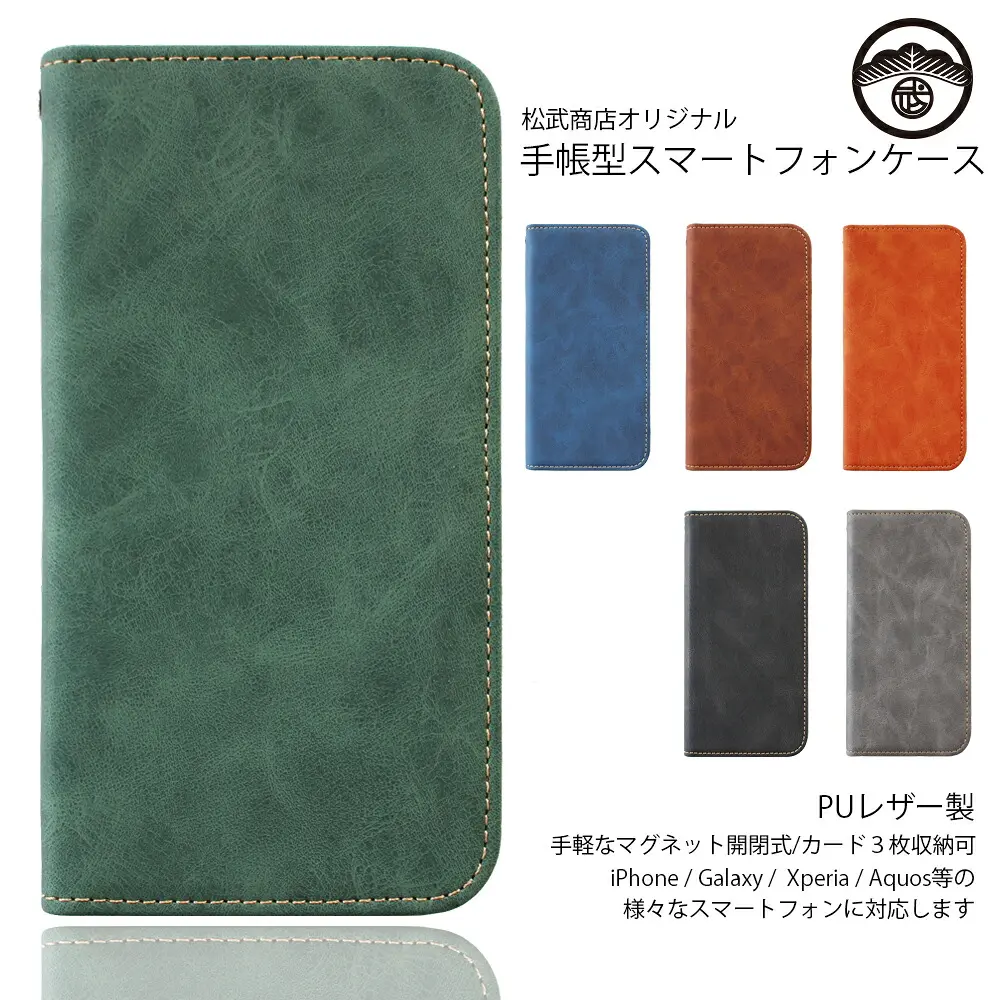
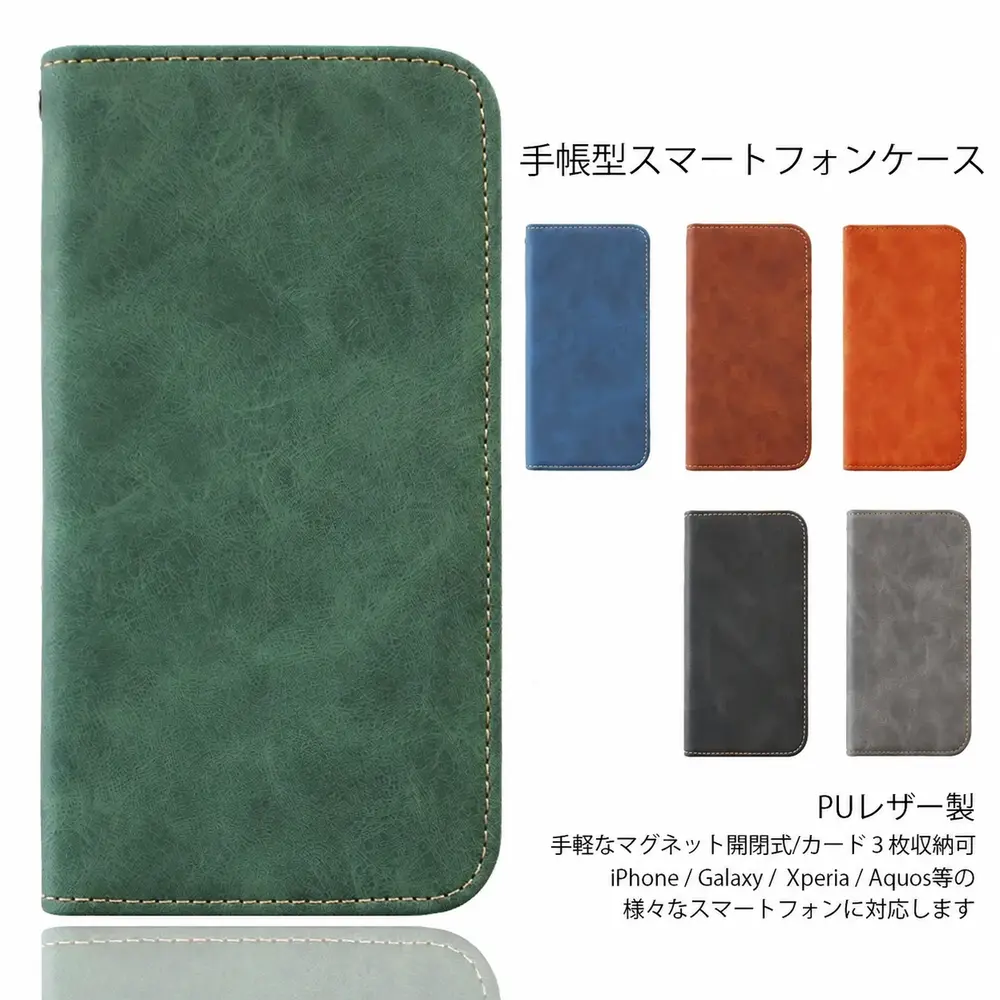
chore: remove Matsutake branding from business assets

diff --git a/.vitepress/theme/components/PerformanceAwardBadges.vue b/.vitepress/theme/components/PerformanceAwardBadges.vue
@@ -31,7 +31,7 @@ const laurelIconPath =
     </div>
     <ul class="performance-badges__notes">
       <li>
-        口コミ総合評価と口コミ件数は、松武商店（楽天市場）の公開情報をもとにした2026年3月31日時点の数値です。
+        口コミ総合評価と口コミ件数は、楽天市場出店店舗の公開情報をもとにした2026年3月31日時点の数値です。
       </li>
       <li>
         出店開始、2021年売上、楽天市場内ランキングは、これまでの実績を示しています。

diff --git a/services/mobile-accessories/index.md b/services/mobile-accessories/index.md
@@ -1,6 +1,6 @@
 ---
 title: スマートフォンアクセサリー事業
-description: 松武商店と3911を中心としたスマートフォンアクセサリー販売事業
+description: 3911を中心としたスマートフォンアクセサリー販売事業
 eyebrow: SMARTPHONE ACCESSORIES
 pageClass: service-doc-page
 ---
@@ -11,7 +11,7 @@ A premium corporate website visual for a Japanese smartphone accessories busines
 -->
 
 株式会社UOの事業基盤となっているのが、**スマートフォンアクセサリー事業**です。  
-楽天市場の **「松武商店」** と **「3911」** を主力店舗として、スマートフォン周辺グッズの販売と、オリジナルアイテムの開発を進めてきました。  
+楽天市場の **「3911」** を主力店舗として、スマートフォン周辺グッズの販売と、オリジナルアイテムの開発を進めてきました。
 販売現場で蓄積してきた運営ノウハウは、現在のOEM・卸販売や越境連携にもつながる重要な基盤となっています。
 
 ## 事業の特徴
@@ -32,27 +32,11 @@ A premium corporate website visual for a Japanese smartphone accessories busines
 株式会社UOは、複数のECチャネルを通じてスマートフォンアクセサリーを展開しています。  
 楽天市場を中心に販売基盤を築きながら、Amazonやモール型プラットフォームにも販路を広げています。
 
-- **楽天市場**：松武商店 / 3911 / 十色生活 / 天海スポーツ / HAGUMI / 松田 / ALLCase
+- **楽天市場**：3911 / 十色生活 / 天海スポーツ / HAGUMI / 松田 / ALLCase
 - **Amazon**：UOWORLD3911 / 幸田良品
 - **メルカリ / Qoo10 / au PAY マーケット**：いずれも3911で展開
 
 ## 主力店舗
-
-### [松武商店（楽天市場）](https://www.rakuten.co.jp/matsutake1816/)
-
-![松武商店イメージ](/uploads/pages/services/shop-matsutake.webp)
-
-<!--
-这里建议优先使用真实截图
-推荐内容：
-- 店铺首页首屏
-- 或具有代表性的商品陈列页
-- 统一裁切成 16:9 或 4:3
--->
-
-> *楽天市場における主力店舗として、スマートフォン周辺グッズを中心に展開しています。  
-多機種対応、オーダーメイド対応、オリジナルアイテム開発を通じて、株式会社UOの販売基盤を支えてきた重要な店舗です。*
-
 
 ### 3911（[楽天市場](https://www.rakuten.co.jp/uo3911/) / [メルカリ](https://jp.mercari.com/shops/profile/DKnSGBVY6VP22ckTF3h444) / Qoo10 / au PAY マーケット）
 

diff --git a/en/services/mobile-accessories/index.md b/en/services/mobile-accessories/index.md
@@ -1,6 +1,6 @@
 ---
 title: Smartphone Accessories Business
-description: Smartphone accessories sales business centered on Matsutake Shoten and 3911
+description: Smartphone accessories sales business centered on 3911
 eyebrow: SMARTPHONE ACCESSORIES
 pageClass: service-doc-page
 ---
@@ -12,7 +12,7 @@ A premium corporate website visual for a Japanese smartphone accessories busines
 -->
 
 The business foundation of UO Co., Ltd. is its **smartphone accessories business**.
-With **"Matsutake Shoten"** and **"3911"** on Rakuten Ichiba as its main storefronts, the company has expanded sales of smartphone accessories and developed original items.
+With **"3911"** on Rakuten Ichiba as its main storefront, the company has expanded sales of smartphone accessories and developed original items.
 The operational know-how accumulated on the sales floor now serves as an important foundation for OEM, wholesale, and cross-border coordination.
 
 
@@ -34,27 +34,11 @@ The operational know-how accumulated on the sales floor now serves as an importa
 UO Co., Ltd. offers smartphone accessories through multiple e-commerce channels.
 While building its sales foundation primarily on Rakuten Ichiba, the company has also expanded to Amazon and marketplace-style platforms.
 
-- **Rakuten Ichiba**: Matsutake Shoten / 3911 / 十色生活 / 天海スポーツ / HAGUMI / 松田 / ALLCase
+- **Rakuten Ichiba**: 3911 / 十色生活 / 天海スポーツ / HAGUMI / 松田 / ALLCase
 - **Amazon**: UOWORLD3911 / 幸田良品
 - **Mercari / Qoo10 / au PAY Market**: all operated under the 3911 name
 
 ## Flagship Stores
-
-### [Matsutake Shoten (Rakuten Ichiba)](https://www.rakuten.co.jp/matsutake1816/)
-
-![Matsutake Shoten image](/uploads/pages/services/shop-matsutake.webp)
-
-<!--
-这里建议优先使用真实截图
-推荐内容：
-- 店铺首页首屏
-- 或具有代表性的商品陈列页
-- 统一裁切成 16:9 或 4:3
--->
-
-> *As a flagship store on Rakuten Ichiba, Matsutake Shoten focuses on smartphone accessories.
-> Through multi-device support, custom-made products, and original item development, it has been a key part of the sales foundation of UO Co., Ltd.*
-
 
 ### 3911 ([Rakuten Ichiba](https://www.rakuten.co.jp/uo3911/) / [Mercari](https://jp.mercari.com/shops/profile/DKnSGBVY6VP22ckTF3h444) / Qoo10 / au PAY Market)
 

diff --git a/zh/services/mobile-accessories/index.md b/zh/services/mobile-accessories/index.md
@@ -1,6 +1,6 @@
 ---
 title: 手机配件业务
-description: 以松武商店和 3911 为核心的手机配件销售业务
+description: 以 3911 为核心的手机配件销售业务
 eyebrow: SMARTPHONE ACCESSORIES
 pageClass: service-doc-page
 ---
@@ -12,7 +12,7 @@ A premium corporate website visual for a Japanese smartphone accessories busines
 -->
 
 株式会社UO 的业务基础是 **手机配件业务**。
-公司以乐天市场的 **“松武商店”** 与 **“3911”** 为核心店铺，持续开展手机周边产品销售与原创商品开发。
+公司以乐天市场的 **“3911”** 为核心店铺，持续开展手机周边产品销售与原创商品开发。
 在销售一线积累的运营经验，如今也成为 OEM、批发销售与跨境协同的重要基础。
 
 
@@ -34,27 +34,11 @@ A premium corporate website visual for a Japanese smartphone accessories busines
 株式会社UO 通过多个 EC 渠道销售手机配件。
 公司以乐天市场为中心搭建销售基础，同时也将渠道拓展到 Amazon 和平台型电商。
 
-- **乐天市场**：松武商店 / 3911 / 十色生活 / 天海スポーツ / HAGUMI / 松田 / ALLCase
+- **乐天市场**：3911 / 十色生活 / 天海スポーツ / HAGUMI / 松田 / ALLCase
 - **Amazon**：UOWORLD3911 / 幸田良品
 - **Mercari / Qoo10 / au PAY 市场**：均以 3911 名义运营
 
 ## 核心店铺
-
-### [松武商店（乐天市场）](https://www.rakuten.co.jp/matsutake1816/)
-
-![松武商店示意图](/uploads/pages/services/shop-matsutake.webp)
-
-<!--
-这里建议优先使用真实截图
-推荐内容：
-- 店铺首页首屏
-- 或具有代表性的商品陈列页
-- 统一裁切成 16:9 或 4:3
--->
-
-> *作为乐天市场的核心店铺，这里主要经营手机周边产品。
-> 通过多机型适配、定制化响应与原创商品开发，松武商店持续支撑着株式会社UO 的销售基础。*
-
 
 ### 3911（[乐天市场](https://www.rakuten.co.jp/uo3911/) / [Mercari](https://jp.mercari.com/shops/profile/DKnSGBVY6VP22ckTF3h444) / Qoo10 / au PAY 市场）
 

diff --git a/en/services/index.md b/en/services/index.md
@@ -13,7 +13,7 @@ This page provides an overview of each business area, along with related product
 ## Main Businesses
 
 - [Smartphone Accessories Business](./mobile-accessories/)
-  Our core business, centered on Matsutake Shoten, with strengths in multi-device support, custom-made products, and small-lot handling.
+  Our core business, with strengths in multi-device support, custom-made products, and small-lot handling.
 
 - [Domestic Foods Business](./domestic-foods/)
   A new sales business focused on rediscovering the value of agricultural and processed foods from across Japan and delivering them to consumers.
@@ -27,7 +27,7 @@ This page provides an overview of each business area, along with related product
 UO Co., Ltd. has built its sales foundation across multiple e-commerce channels.
 With the smartphone accessories business at its core, the company operates from both domestic sales in Japan and cross-border coordination.
 
-- **Rakuten Ichiba**: Matsutake Shoten, 3911, 十色生活, 天海スポーツ, HAGUMI, 松田, ALLCase
+- **Rakuten Ichiba**: 3911, 十色生活, 天海スポーツ, HAGUMI, 松田, ALLCase
 - **Amazon**: UOWORLD3911, 幸田良品, 国内産屋
 - **Mercari / Qoo10 / au PAY Market**: all operated under the 3911 name
 - **Cross-border coordination**: also supports product listing for China and production coordination with partners on the Chinese side

diff --git a/zh/services/index.md b/zh/services/index.md
@@ -13,7 +13,7 @@ pageClass: service-doc-page
 ## 主要业务
 
 - [手机配件业务](./mobile-accessories/)
-  以松武商店为核心，是以多机型适配、定制化与小批量支持为优势的核心业务。
+  以多机型适配、定制化与小批量支持为优势的核心业务。
 
 - [日本国产食品业务](./domestic-foods/)
   重新发掘日本各地农产品与加工食品的价值，并将其传递给消费者的新业务。
@@ -27,7 +27,7 @@ pageClass: service-doc-page
 株式会社UO 通过多个 EC 渠道建立了销售基础。
 公司以手机配件业务为中心，从日本国内销售与跨境协同两方面推进业务发展。
 
-- **乐天市场**：松武商店、3911、十色生活、天海スポーツ、HAGUMI、松田、ALLCase
+- **乐天市场**：3911、十色生活、天海スポーツ、HAGUMI、松田、ALLCase
 - **Amazon**：UOWORLD3911、幸田良品、国内産屋
 - **Mercari / Qoo10 / au PAY 市场**：均以 3911 名义运营
 - **跨境协同**：也支持面向中国的商品上架与中国侧生产协作
